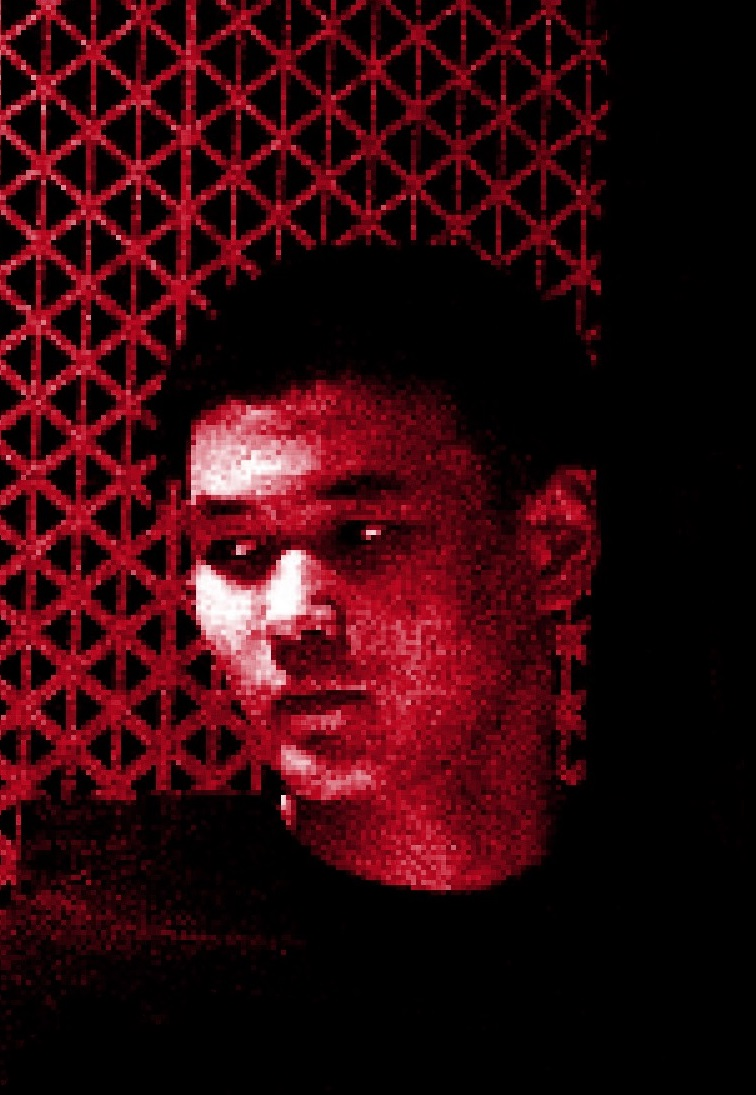
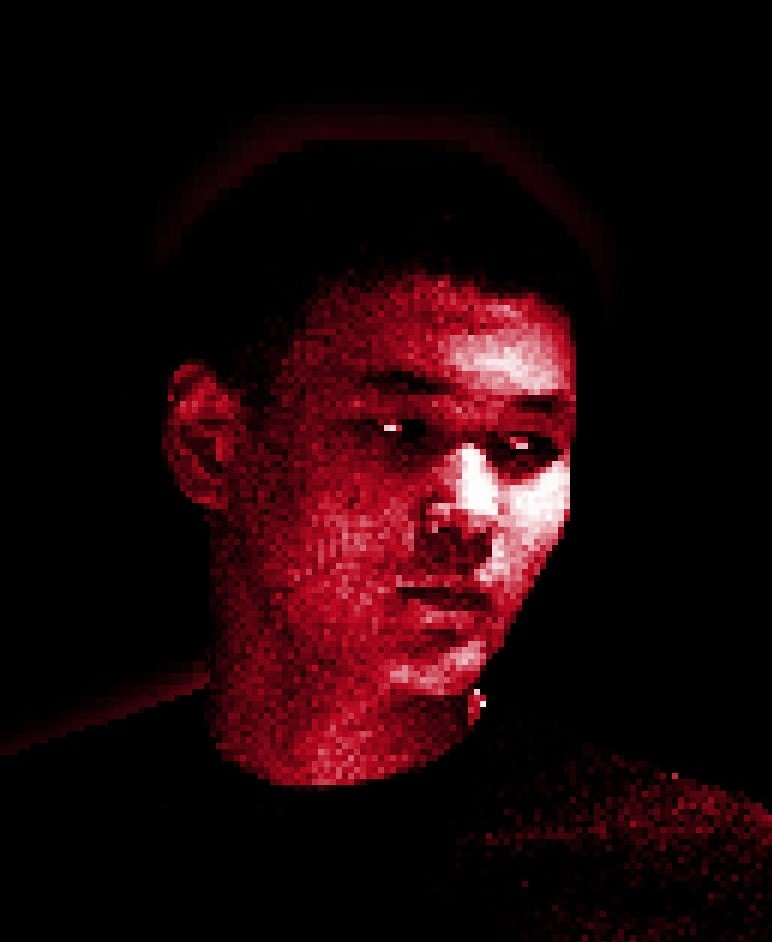
feat: create general information component

diff --git a/src/components/Command/GeneralInformation/GeneralInformation.vue b/src/components/Command/GeneralInformation/GeneralInformation.vue
@@ -1,20 +1,89 @@
 <script setup lang="ts">
 import type { Command } from "@/interfaces/command.interface";
+import Portrait from "@/assets/images/portrait.jpg?url";
+import { useComputerAutomaticTypingSound } from "@/composables/useSound";
+import { reactive } from "vue";
+import GlitchedWriter from "vue-glitched-writer";
 
 const { command } = defineProps<{ command: Command }>();
+
+const { title, paragraphs } = command;
+
+const { startTypingSound, stopTypingSound } = useComputerAutomaticTypingSound();
+
+const startNext = () => {
+  if (currentVisibleItemIndex < listItemsVisibility.length) {
+    listItemsVisibility[currentVisibleItemIndex] = true;
+    currentVisibleItemIndex++;
+  } else {
+    stopTypingSound();
+  }
+};
+
+const listItemsVisibility: boolean[] = reactive([]);
+let currentVisibleItemIndex = 0;
+
+for (let i = 0; i < paragraphs.length; i++) {
+  listItemsVisibility.push(false);
+}
 </script>
 
 <template>
   <div class="general">
-    <div class="general__image-wrapper">
-      <div class="general__image-mask"></div>
-      <img
-        src="@/assets/images/portrait-v3.jpg"
-        alt=""
-        class="general__image"
-      />
+    <GlitchedWriter
+      :text="title"
+      appear
+      :options="{
+        html: true,
+        interval: [0, 10],
+        delay: [0, 0],
+        steps: 0,
+        changeChance: 0.5,
+        maxGhosts: 0,
+        oneAtATime: 1,
+        glyphs: '',
+        fillSpace: false,
+        glyphsFromText: false,
+        mode: 'erase',
+      }"
+      class="general__title"
+      @finish="startNext"
+      @start="startTypingSound"
+    />
+    <div class="general__row">
+      <div class="general__image-wrapper">
+        <div class="general__image-mask"></div>
+        <img :src="Portrait" alt="" class="general__image" />
+      </div>
+      <div class="general__content">
+        <template v-for="(paragraph, index) in paragraphs">
+          <GlitchedWriter
+            v-if="listItemsVisibility[index]"
+            :text="paragraph"
+            @finish="startNext"
+            :options="{
+              html: true,
+              interval: [0, 10],
+              delay: [0, 0],
+              steps: 0,
+              changeChance: 0.5,
+              maxGhosts: 0,
+              oneAtATime: 1,
+              glyphs: '',
+              fillSpace: false,
+              glyphsFromText: false,
+              mode: 'erase',
+            }"
+            class="general__paragraph"
+            appear
+          />
+        </template>
+        <div class="general__vertical-border" :style="{ top: 0, left: 0 }" />
+        <div class="general__vertical-border" :style="{ bottom: 0, left: 0 }" />
+        <div class="general__vertical-border" :style="{ top: 0, right: 0 }" />
+        <div class="general__vertical-border" :style="{ bottom: 0, right: 0 }" />
+      </div>
     </div>
-    <div class="general__content"></div>
   </div>
 </template>
 
@@ -23,22 +92,33 @@ const { command } = defineProps<{ command: Command }>();
   width: 100%;
   display: flex;
   justify-content: space-between;
+  flex-direction: column;
+}
+
+.general__title {
+}
+
+.general__row {
+  width: 100%;
+  display: flex;
+  justify-content: space-between;
 }
 
 .general__image-wrapper {
-  width: 35%;
+  width: 25%;
   position: relative;
 }
 
 .general__image {
   width: 100%;
+  display: block;
 
   border: 5px solid var(--color-main-red);
   box-shadow: var(--main-shadow);
 }
 
 .general__image-mask {
-  height: calc(97%);
+  height: calc(100% - 10px);
   width: calc(100% - 10px);
   position: absolute;
   top: 5px;
@@ -54,6 +134,25 @@ const { command } = defineProps<{ command: Command }>();
 }
 
 .general__content {
-  width: 63%;
+  padding: 10px 30px;
+  width: 73%;
+  position: relative;
+
+  border-top: 5px solid var(--color-main-red);
+  border-bottom: 5px solid var(--color-main-red);
+}
+
+.general__paragraph {
+  display: block;
+}
+
+.general__vertical-border {
+  position: absolute;
+
+  height: 15%;
+  width: 5px;
+  background-color: var(--color-main-red);
+
+  box-shadow: var(--main-shadow);
 }
 </style>

diff --git a/src/views/TerminalView/TerminalView.vue b/src/views/TerminalView/TerminalView.vue
@@ -1,10 +1,9 @@
 <script setup lang="ts">
-import TerminalIntro from "@/components/Terminal/TerminalIntro/TerminalIntro.vue";
-import CommandsInput from "@/components/home/CommandsInput/CommandsInput.vue";
 import { ref, reactive } from "vue";
 import type { Command } from "@/interfaces/command.interface";
-import CommandsList from "@/components/Command/CommandList/CommandsList.vue";
-import Portrait from "@/assets/images/portrait-v3.jpg";
+import TerminalIntro from "@/components/Terminal/TerminalIntro/TerminalIntro.vue";
+import CommandsInput from "@/components/home/CommandsInput/CommandsInput.vue";
+import CommandItem from "@/components/Terminal/CommandItem/CommandItem.vue";
 
 let inputRendered = ref(false);
 const commandsOutputList: Command[] = reactive([]);
@@ -30,15 +29,14 @@ const handleCommandSubmit = (value: string) => {
   if (value === "GET GENERAL INFORMATION") {
     commandsOutputList.push({
       key: "GET GENERAL INFORMATION",
-      title: "Watched suspect No. G19A",
-      imageSrc: Portrait,
+      title: "Replicant Number <span style='color: #1b00b2'>B-263-54<span/>",
       paragraphs: [
-        "Public Name: Sultan M.Z",
-        "Occupation: Full stack developer",
-        "‣ JavaScript  ‣ TypeScript  ‣ Node Js  ‣ Vue Js 2/3  ‣ Vuex  ‣ Express Js  ‣ Nest Js  ‣ TypeORM  ‣ Socket IO  ‣ PostgreSQL  ‣ MySQL  ‣ Docker  ‣ HTML  ‣ CSS  ‣ Git",
-        "Status: Open for work",
-        "Special abilities: ‣ accelerated learning  ‣ bugs resistance  ‣ test writing",
-        "Last identified location: 40.985856, 29.024999",
+        "<span style='color: #1acc6b'>Human name: </span>Sultan Mustafin",
+        "<span style='color: #1acc6b'>Occupation: </span>Full stack developer",
+        "<span style='color: #1acc6b'>Stack: </span> <br>‣ JavaScript  ‣ TypeScript  ‣ Node Js  ‣ Vue Js 2/3  ‣ Vuex  ‣ Express Js  ‣ Nest Js  ‣ TypeORM  ‣ Socket IO  ‣ PostgreSQL  ‣ MySQL  ‣ Docker  ‣ HTML  ‣ CSS  ‣ Git",
+        "<span style='color: #1acc6b'>Status: </span/>Open for work",
+        "<span style='color: #1acc6b'>Special abilities: </span> <br>‣ accelerated learning  ‣ bugs resistance  ‣ test writing",
+        "<span style='color: #1acc6b'>Last identified location: </span>40.985856, 29.024999",
       ],
     });
   }
@@ -48,7 +46,11 @@ const handleCommandSubmit = (value: string) => {
 <template>
   <div class="terminal">
     <TerminalIntro @finish="renderInput" />
-    <CommandsList v-for="command in commandsOutputList" :command="command" />
+    <CommandItem
+      v-for="command in commandsOutputList"
+      :command="command"
+      :command-key="command.key"
+    />
     <CommandsInput v-if="inputRendered" @submit="handleCommandSubmit" />
   </div>
 </template>

diff --git a/src/components/Terminal/TerminalIntro/TerminalIntro.vue b/src/components/Terminal/TerminalIntro/TerminalIntro.vue
@@ -5,7 +5,7 @@ import { useComputerAutomaticTypingSound } from "@/composables/useSound";
 const emit = defineEmits(["finish"]);
 
 const message =
-  "SMZ industries internal remote terminal connection obtained <br> From: <span style='color: #f3d96b'>Turkey</span> Local Time: <span style='color: #f3d96b'>06:37</span>";
+  "SMZ industries internal policy <br> Remote terminal connection obtained from: <span style='color: #f3d96b'>Turkey</span> at local Time: <span style='color: #f3d96b'>06:37</span>";
 const { startTypingSound, stopTypingSound } = useComputerAutomaticTypingSound();
 
 const handleStart = () => {
@@ -38,7 +38,6 @@ const handleFinish = () => {
       }"
       @start="handleStart"
       @finish="handleFinish"
-      class="S"
       appear
     />
   </div>
@@ -47,5 +46,6 @@ const handleFinish = () => {
 <style scoped>
 .intro {
   font-size: 20px;
+  color: var(--color-text-highlighted-purple);
 }
 </style>

diff --git a/src/components/home/CommandsInput/CommandsInput.vue b/src/components/home/CommandsInput/CommandsInput.vue
@@ -14,7 +14,7 @@ const setCarotPosition = (event: Event) => {
   if (element.selectionStart) {
     inputCaretLeftOffset.value = 81 + 16 * element.selectionStart;
   } else {
-    inputCaretLeftOffset.value = 81 + 16;
+    inputCaretLeftOffset.value = 81;
   }
 };
 
@@ -59,7 +59,6 @@ const handleSubmit = (event: Event) => {
       @click="setCarotPosition"
     />
     <div
-      v-if="inputIsFocused"
       class="text-long-blink wrapper__caret"
       :style="{ left: inputCaretLeftOffset + 'px' }"
     />
@@ -109,7 +108,7 @@ const handleSubmit = (event: Event) => {
   top: 7px;
   z-index: 2;
 
-  background: var(--color-main-red);
+  background: var(--color-main-red-transparent);
   box-shadow: none;
 }
 </style>

diff --git a/src/assets/styles/modules/variables.css b/src/assets/styles/modules/variables.css
@@ -4,11 +4,12 @@
   
   --gradient-background: radial-gradient(circle, var(--color-background-red) 0%, var(--color-background-dark) 77%);
 
-  --color-main-red: #bd0820;
+  --color-main-red: #bd0808;
+  --color-main-red-transparent: #bd08209e;
   --color-text-highlighted-blue: #2974C8;
   --color-text-highlighted-yellow: #f3d96b;
   --color-text-highlighted-green: #1acc6b;
-  --color-text-highlighted-purple: #9629c8;
+  --color-text-highlighted-purple: #730fa2;
 
   --main-shadow: 10px 0px 0px rgba(0, 0, 0, 1);
 }

diff --git a/src/views/AppIntroView/AppIntroView.vue b/src/views/AppIntroView/AppIntroView.vue
@@ -41,7 +41,7 @@ const enterClickHandler = (event: KeyboardEvent) => {
         class="intro__image-inner-wrapper"
       >
         <img
-          src="@/assets/images/pixelated-red-computer.svg"
+          src="@/assets/icons/pixelated-red-computer.svg"
           alt="pixelated-computer"
           class="intro__image"
         />

diff --git a/src/components/Terminal/CommandItem/CommandItem.vue b/src/components/Terminal/CommandItem/CommandItem.vue
@@ -20,6 +20,6 @@ const componentToDisplay = getCommandComponentToDisplay(commandKey);
 .command {
   width: 100%;
   margin-top: 20px;
-  color: var(--color-text-highlighted-purple);
+  color: var(--color-main-red);
 }
 </style>

diff --git a/src/assets/styles/modules/text.css b/src/assets/styles/modules/text.css
@@ -55,7 +55,6 @@ body {
     box-shadow: none;
   }
   50% {
-    background: var(--color-main-red);
-    box-shadow: var(--main-shadow);
+    background: var(--color-main-red-transparent);
   }
 }

diff --git a/src/interfaces/command.interface.ts b/src/interfaces/command.interface.ts
@@ -1,6 +1,6 @@
 export interface Command {
   title?: string;
-  key?: string;
+  key: "GET COMMANDS" | "GET GENERAL INFORMATION";
   type?: string;
   lines?: string[];
   projects?: Array<{
